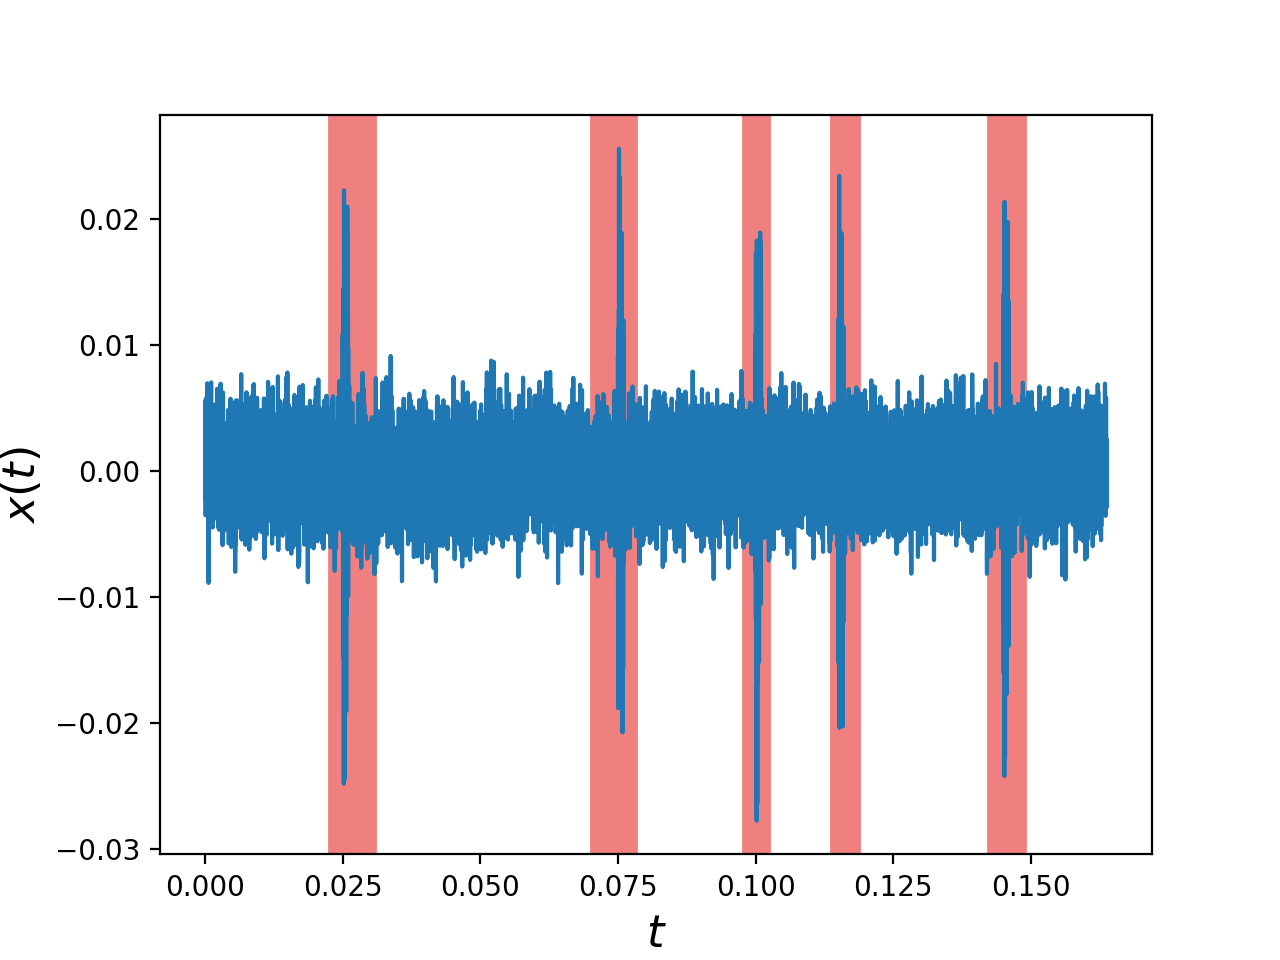
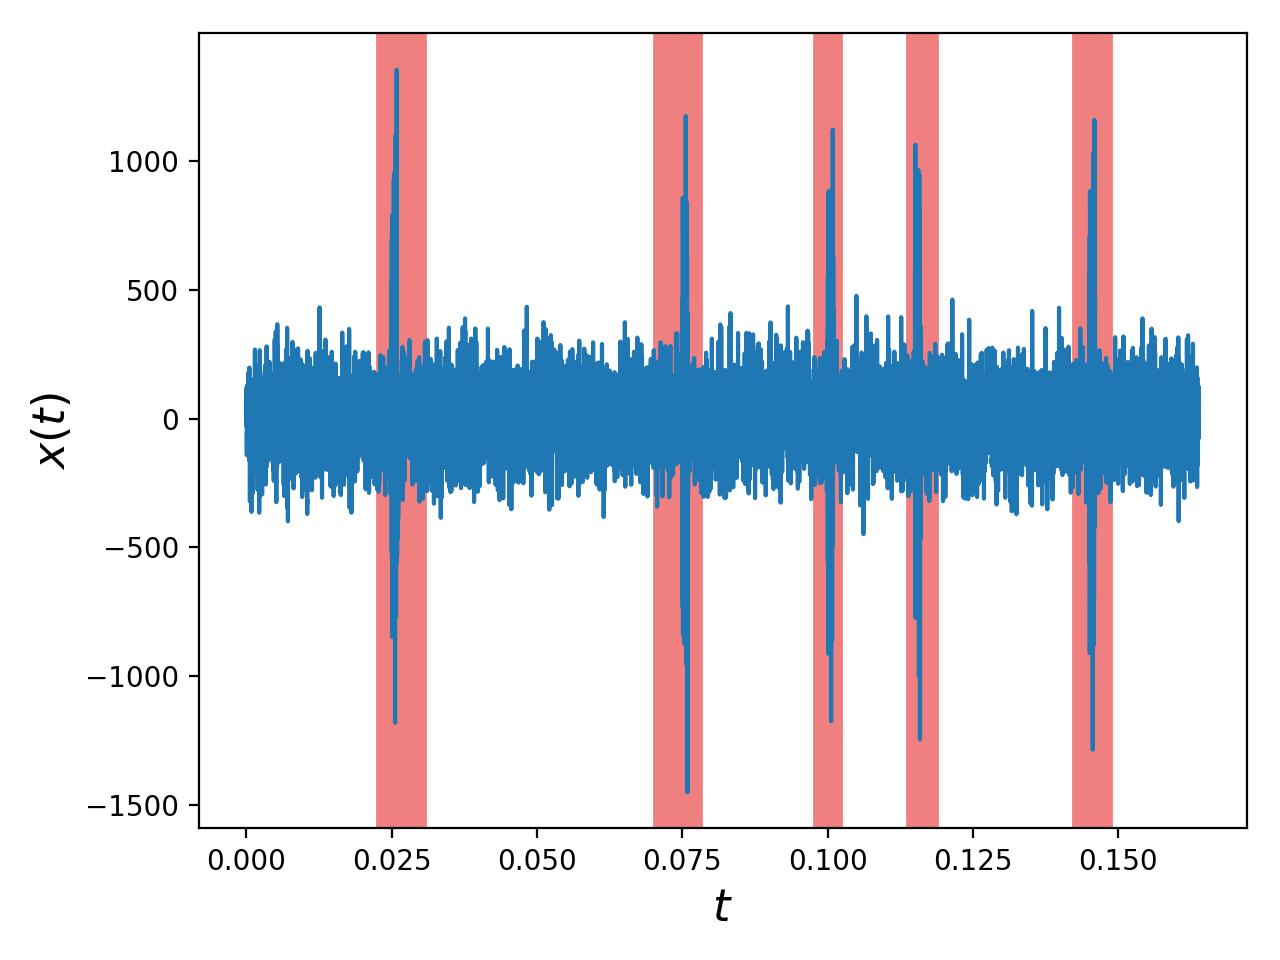
Update README doc to be consistent with new 1d & 2d RandomSignal classes

diff --git a/README.md b/README.md
@@ -41,6 +41,7 @@ In addition, `random_data` provides:
   an array of measurements (the array need not be uniformly spaced),
 - robust methods for visualizing the relevant spectral estimates
   (magnitude, coherence, phase angle, mode number, and quality of fit),
+- a class for autoregressive (AR) autospectral-density estimation,
 - a class for "spike" identification and
   removal from spectral estimates, and
 - a class for determining the "trigger offset" between a collection
@@ -149,13 +150,12 @@ t0 = 0      # initial time, [t0] = s
 T = 1       # (approximate) record length, [T] = s
 
 # Generate two random signals
-fc = 25e3   # cutoff frequency, [fc] = Hz
-pole = 2    # 2-pole filter above fc
-sig1 = rd.signals.RandomSignal(Fs, t0, T, fc=fc, pole=pole)
-sig2 = rd.signals.RandomSignal(Fs, t0, T, fc=fc, pole=pole)
+tau = 4. / Fs       # correlation time
+sig1 = rd.signals.RandomSignal(Fs=Fs, t0=t0, T=T, tau=tau)
+sig2 = rd.signals.RandomSignal(Fs=Fs, t0=t0, T=T, tau=tau)
 
 # Add a coherent signal with well-known phase difference
-A = 3e-4                # amplitude, [A] = [sig1.x]
+A = 20.                 # amplitude, [A] = [sig1.x]
 f0 = 50e3               # frequency, [f0] = Hz
 theta12 = np.pi / 2     # cross-phase, [theta12] = radian
 
@@ -176,7 +176,7 @@ csd = rd.spectra.CrossSpectralDensity(
     Tens=Tens, Nreal_per_ens=Nreal_per_ens)
 
 # Create plots
-fig, axes = plt.subplots(1, 3, sharex=True, sharey=True)
+fig, axes = plt.subplots(1, 3, sharex=True, sharey=True, figsize=(12, 5))
 csd.plotSpectralDensity(ax=axes[0], title='|cross-spectral density|')
 csd.plotCoherence(ax=axes[1], title='magnitude-squared coherence')
 csd.plotPhaseAngle(ax=axes[2], title='cross-phase')
@@ -244,16 +244,15 @@ locations = (np.pi / 180) * np.array(
 Nsig = len(locations)
 
 # Generate representative random signal
-fc = 25e3   # cutoff frequency, [fc] = Hz
-pole = 2    # 2-pole filter above fc
-sig = rd.signals.RandomSignal(Fs, t0, T, fc=fc, pole=pole)
+tau = 8. / Fs
+sig = rd.signals.RandomSignal(Fs=Fs, t0=t0, T=T, tau=tau)
 Npts = len(sig.t())
 
 # Initialize signal array
 signals = np.zeros((Nsig, Npts))
 
 # Coherent signal properties
-A0 = 1e-3  # amplitude, [A0] = [sig1.x]
+A0 = 25.   # amplitude, [A0] = [sig1.x]
 f0 = 50e3  # frequency, [f0] = Hz
 n = -3     # mode number
 omega0_t = 2 * np.pi * f0 * sig.t()
@@ -268,7 +267,7 @@ for i in np.arange(Nsig):
     signals[i, :] = A0 * np.cos(omega0_t + dtheta)
 
     # Uncorrelated noise
-    signals[i, :] += (rd.signals.RandomSignal(Fs, t0, T, fc=fc, pole=pole)).x
+    signals[i, :] += (rd.signals.RandomSignal(Fs=Fs, t0=t0, T=T, tau=tau)).x
 # =============================================================================
 
 # =============================================================================
@@ -286,6 +285,7 @@ A = rd.array.FittedCrossPhaseArray(
 fig, axes = plt.subplots(1, 2, sharex=True, sharey=True)
 A.plotR2(ax=axes[0], title='R^2')
 A.plotModeNumber(ax=axes[1], title='mode number')
+plt.tight_layout()
 plt.show()
 # =============================================================================
 
@@ -309,7 +309,8 @@ A.plotSlice('theta_xy', f=50e3, t=0.05)
 
 ![mode_number_fit](https://raw.githubusercontent.com/emd/random_data/master/figs/mode_number_fit.png)
 
-The error bars indicate the *random error* in the estimated cross-phase angle.
+The error bars (barely visible)
+indicate the *random error* in the estimated cross-phase angle.
 Plotting slices of other spectral quantities
 (`'Gxy'` for cross-spectral density,
 `'gamma2xy'` for magnitude-squared coherence)
@@ -331,9 +332,10 @@ can similarly be easily computed and visualized via the
 `random_data.array.SpatialCrossCorrelation` class.
 For example, the below code computes the two-dimensional complex-valued
 correlation function and the two-dimensional autospectral density of
-a model broadband signal.
+a model signal with multiple fluctuation branches.
 
-(Note that most of the code below is to generate a model broadband signal,
+(Note that most of the code below is to generate a model signal
+with multiple fluctuation branches,
 while the spectral computations only involve
 initialization of two objects,
 one for the correlation function and
@@ -351,31 +353,36 @@ import random_data as rd
 # =============================================================================
 # Signal parameters:
 # ------------------
-# Temporal-grid parameters
-Fs = 1.         # sample rate, [Fs] = samples / s
-t0 = 0          # initial time, [t0] = s
-T = 10000       # (approximate) temporal record length, [T] = s
-
 # Spatial-grid parameters
 Fs_spatial = 1  # spatial sample rate, [Fs_spatial] = samples / [distance]
 z0 = 0          # initial spatial sample, [z0] = 1 / [Fs_spatial]
-Z = 64          # (approximate) spatial record length, [Z] = 1 / [Fs_spatial]
+Z = 512
 
-# Broadband spectral parameters
-fc = 0.1 * Fs   # cutoff frequency
-pole = 2        # strength of cutoff
-vph = 1.0       # phase velocity
-Lz = 5          # correlation length
+# Temporal-grid parameters
+Fs = 1.         # sample rate, [Fs] = samples / s
+t0 = 0          # initial time, [t0] = s
+T = 32768       # (approximate) temporal record length, [T] = s
+
+# Parameters of each fluctuation branch
+# (Here, we specify 4 distinct branches, each with unique characteristics)
+xi0 = [0.0,   0., -0.075,   0.2]
+Lz = [ 2.5,   4.,    25.,   50.]
+f0 = [  0.,   0.,     0.,   0.2]
+tau = [10.,  10.,    25.,  100.]
+v = [  0.5, -0.5,    -4.,    0.]
+S0 = [  1.,   1.,    0.1,    3.]
 
 # Noise-floor parameters
-amplitude_noise_floor = 1e-1
+noise_floor = 1e-5
+seed = None
 
 # Create signal object:
 # ---------------------
 sig = rd.signals.RandomSignal2d(
-    Fs=Fs, t0=t0, T=T, fc=fc, pole=pole,
-    Fs_spatial=Fs_spatial, z0=z0, Z=Z, vph=vph, Lz=Lz,
-    amplitude_noise_floor=amplitude_noise_floor)
+    Fs_spatial=Fs_spatial, z0=z0, Z=Z,
+    Fs=Fs, t0=t0, T=T,
+    xi0=xi0, Lz=Lz, f0=f0, tau=tau, v=v, S0=S0,
+    noise_floor=noise_floor, seed=seed)
 
 # Sample only a subset of spatial locations:
 # ------------------------------------------
@@ -424,19 +431,50 @@ asd2d_fourier = rd.spectra2d.TwoDimensionalAutoSpectralDensity(
     fourier_params={'window': np.hanning})
 
 # ... via Burg method
-p = 12               # AR order for Burg estimate
-Nxi = 100            # Number of points in spatial grid for Burg estimate
+p = 15               # AR order for Burg estimate
+Nxi = 1000           # Number of points in spatial grid for Burg estimate
 
 asd2d_burg = rd.spectra2d.TwoDimensionalAutoSpectralDensity(
     corr, spatial_method='burg',
     burg_params={'p': p, 'Nxi': Nxi})
 
-# Compare Fourier and Burg methods
-vlim = [1e-2, 2e0]
-fig, axes = plt.subplots(1, 2, sharex=True, sharey=True, figsize=(12, 5))
-asd2d_fourier.plotSpectralDensity(ax=axes[0], title='Fourier', vlim=vlim)
-asd2d_burg.plotSpectralDensity(ax=axes[1], title='Burg', vlim=vlim)
+# Compare true autospectral density to Fourier and Burg methods:
+# --------------------------------------------------------------
+fig, axs = plt.subplots(1, 3, figsize=(9, 4.25))
+fontsize = 12
+vlim = [sig._noise_floor, np.max(sig._Sxx)]
+
+sig.plotSpectralDensity(
+    ax=axs[0],
+    title='true',
+    fontsize=fontsize,
+    vlim=vlim)
+asd2d_fourier.plotSpectralDensity(
+    ax=axs[1],
+    title='FFT in space',
+    fontsize=fontsize,
+    vlim=vlim)
+asd2d_burg.plotSpectralDensity(
+    ax=axs[2],
+    title='p = %i Burg AR in space' % p,
+    fontsize=fontsize,
+    vlim=vlim)
+
+plt.tight_layout()
+
+# Tight layout alters tick labels...
+for ax in axs:
+    ax.set_xticks([-0.5, -0.25, 0, 0.25, 0.5])
+    ax.set_yticks([0.1, 0.2, 0.3, 0.4, 0.5])
+
 plt.show()
+
+# # Compare Fourier and Burg methods
+# vlim = [noise_floor, np.max(sig._Sxx)]
+# fig, axes = plt.subplots(1, 2, sharex=True, sharey=True, figsize=(12, 5))
+# asd2d_fourier.plotSpectralDensity(ax=axes[0], title='Fourier', vlim=vlim)
+# asd2d_burg.plotSpectralDensity(ax=axes[1], title='Burg', vlim=vlim)
+# plt.show()
 # =============================================================================
 
 ```
@@ -445,7 +483,7 @@ plt.show()
 
 Here, contributions from both the broadband and coherent signals are visible.
 Note that this is a plot of the *normalized* complex-valued, spatial
-cross-correlation function. That is, at each freqency `f`,
+cross-correlation function. That is, at each frequency `f`,
 the correlation function `Gxy(delta, f)` is normalized to `Gxy(0, f)`
 (i.e. its value at zero separation (`delta = 0`) and frequency `f`).
 This allows for easy visualization of the correlation function's structure
@@ -464,7 +502,6 @@ Further, note that the spatial spectral estimates
 can be estimated from the correlation function `corr` via
 a `'fourier'` or `'burg'` method.
 The Burg method can produce superior resolution
-(see e.g. the coherent peak),
 particularly when the number of spatial samples are limited, but
 the Burg method is also subject to "pole splitting", which
 typically becomes more manifest as the pole order `p` is increased.
@@ -503,9 +540,15 @@ t0 = 0      # initial time, [t0] = s
 T = 0.2     # (approximate) record length, [T] = s
 
 # Generate representative random signal
-fc = 25e3   # cutoff frequency, [fc] = Hz
-pole = 2    # 2-pole filter above fc
-sig = rd.signals.RandomSignal(Fs, t0, T, fc=fc, pole=pole)
+f0 = 0.
+tau = 4. / Fs
+G0 = 1.
+noise_floor=1e-5
+seed = None
+sig = rd.signals.RandomSignal(
+    Fs=Fs, t0=t0, T=T,
+    f0=f0, tau=tau, G0=G0,
+    noise_floor=noise_floor, seed=seed)
 
 # Add "spikes" to various points of signal
 N = 200
@@ -531,6 +574,7 @@ SH = rd.signals.SpikeHandler(
 # ------------------------------------------
 window_fraction = [0.1, 0.9]
 SH.plotTraceWithSpikeColor(sig.x, sig.t(), window_fraction=window_fraction)
+plt.tight_layout()
 plt.show()
 # =============================================================================
 
@@ -618,10 +662,15 @@ T = 1e5                         # (approximate) record length, [T] = s
 tau = 0.5 / Fs                  # [tau] = s, nonzero
 
 # Spectral parameters of broadband signal common to digital records 1 & 2
-fc = 0.1 * Fs                   # [fc] = [Fs]
-pole = 2                        # [pole] = unitless
+f0_broad = 0.
+tau_broad = 2. / Fs  # correlation time
+G0 = 1.
+seed = None
 
-sig = rd.signals.RandomSignal(Fs, t0, T, fc=fc, pole=pole)
+sig = rd.signals.RandomSignal(
+    Fs=Fs, t0=t0, T=T,
+    f0=f0_broad, tau=tau_broad, G0=G0,
+    noise_floor=0., seed=seed)
 N = len(sig.x)
 t = sig.t()
 
